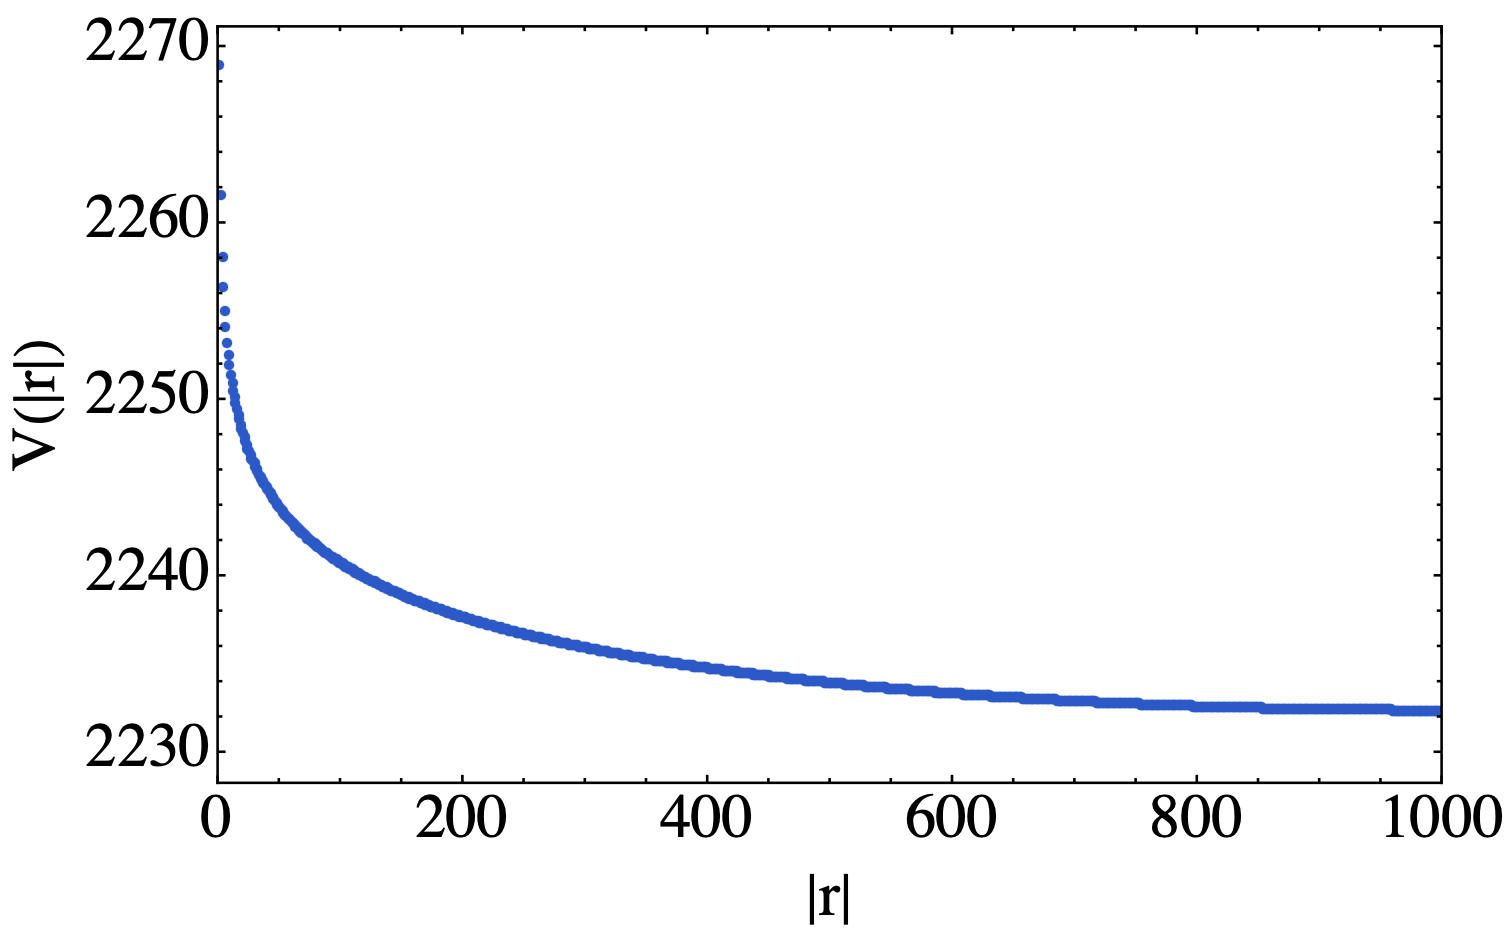
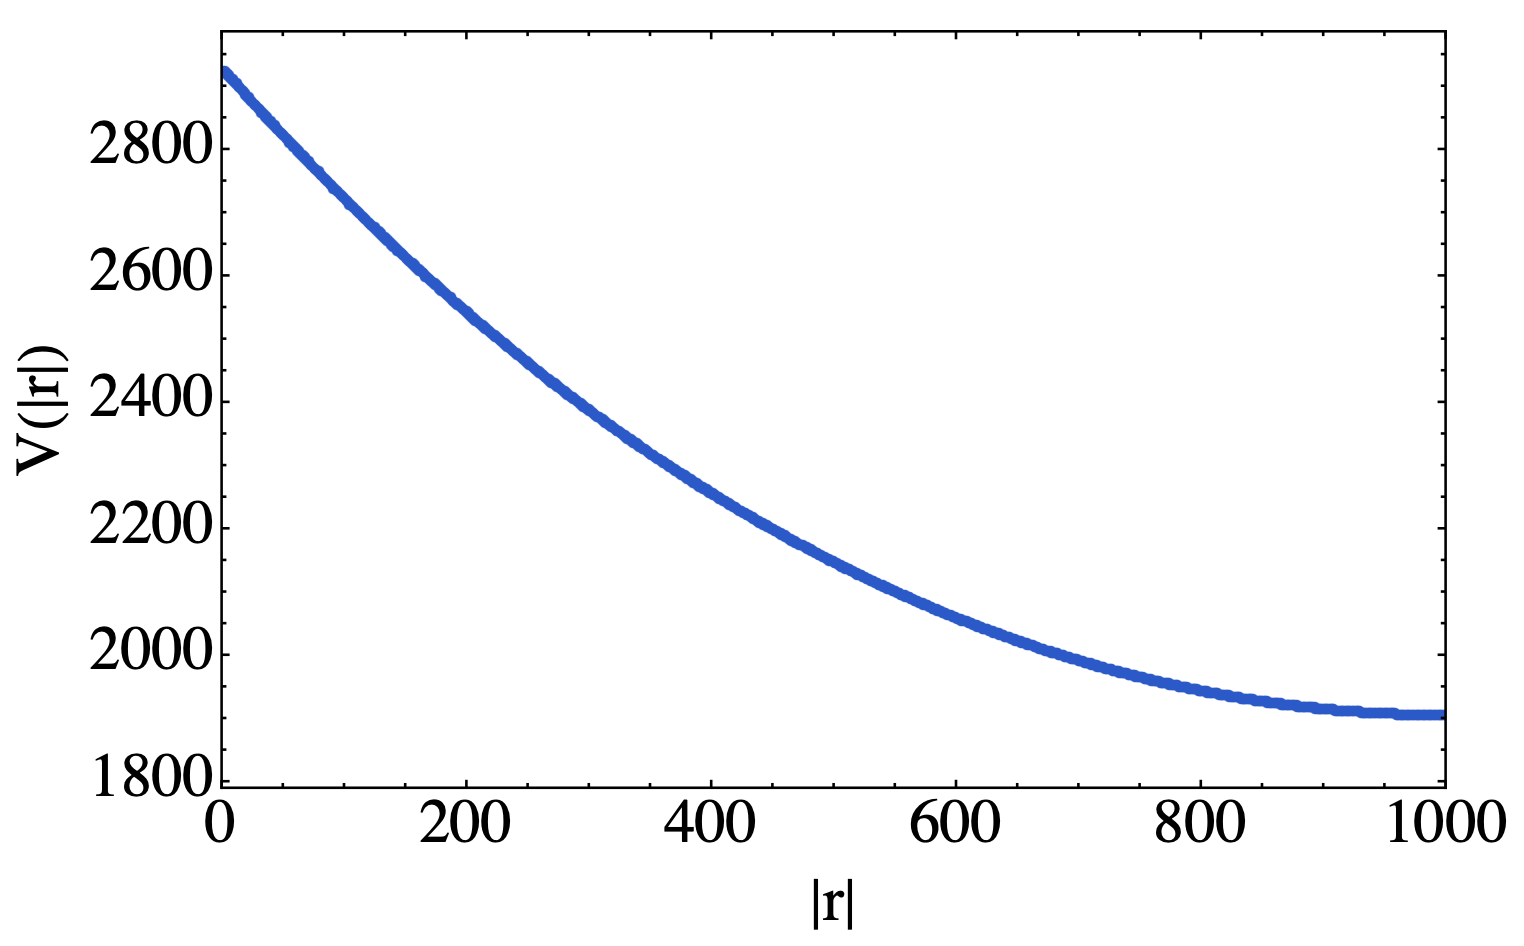
ad

diff --git a/_posts/2024-12-11-Screeing.md b/_posts/2024-12-11-Screeing.md
@@ -32,10 +32,10 @@ show_author_profile: true
 如果电子之间是直接的库伦相互作用，
 
 $$
-V(\boldsymbol{k})=\frac{1}{\boldsymbol{k}}
+V(\boldsymbol{k})=\frac{1}{\abs{\boldsymbol{k}}^2}
 $$
 
-该势能随着$|\boldsymbol{k}|$增加而减小，如下图所示
+该势能随着$\abs{\boldsymbol{k}}$增加而减小，如下图所示
 
 ![png](/assets/images/Mma/Vscr-1.png)
 
@@ -73,6 +73,10 @@ $$
 这里是用Mathematica做的快速Fourier变换，代码也贴一下
 
 ![png](/assets/images/Mma/Vscr-5.png)
+
+# 参考
+
+- 固体理论(李正中) p108
 
 # 公众号
 相关内容均会在公众号进行同步，若对该Blog感兴趣，欢迎关注微信公众号。
